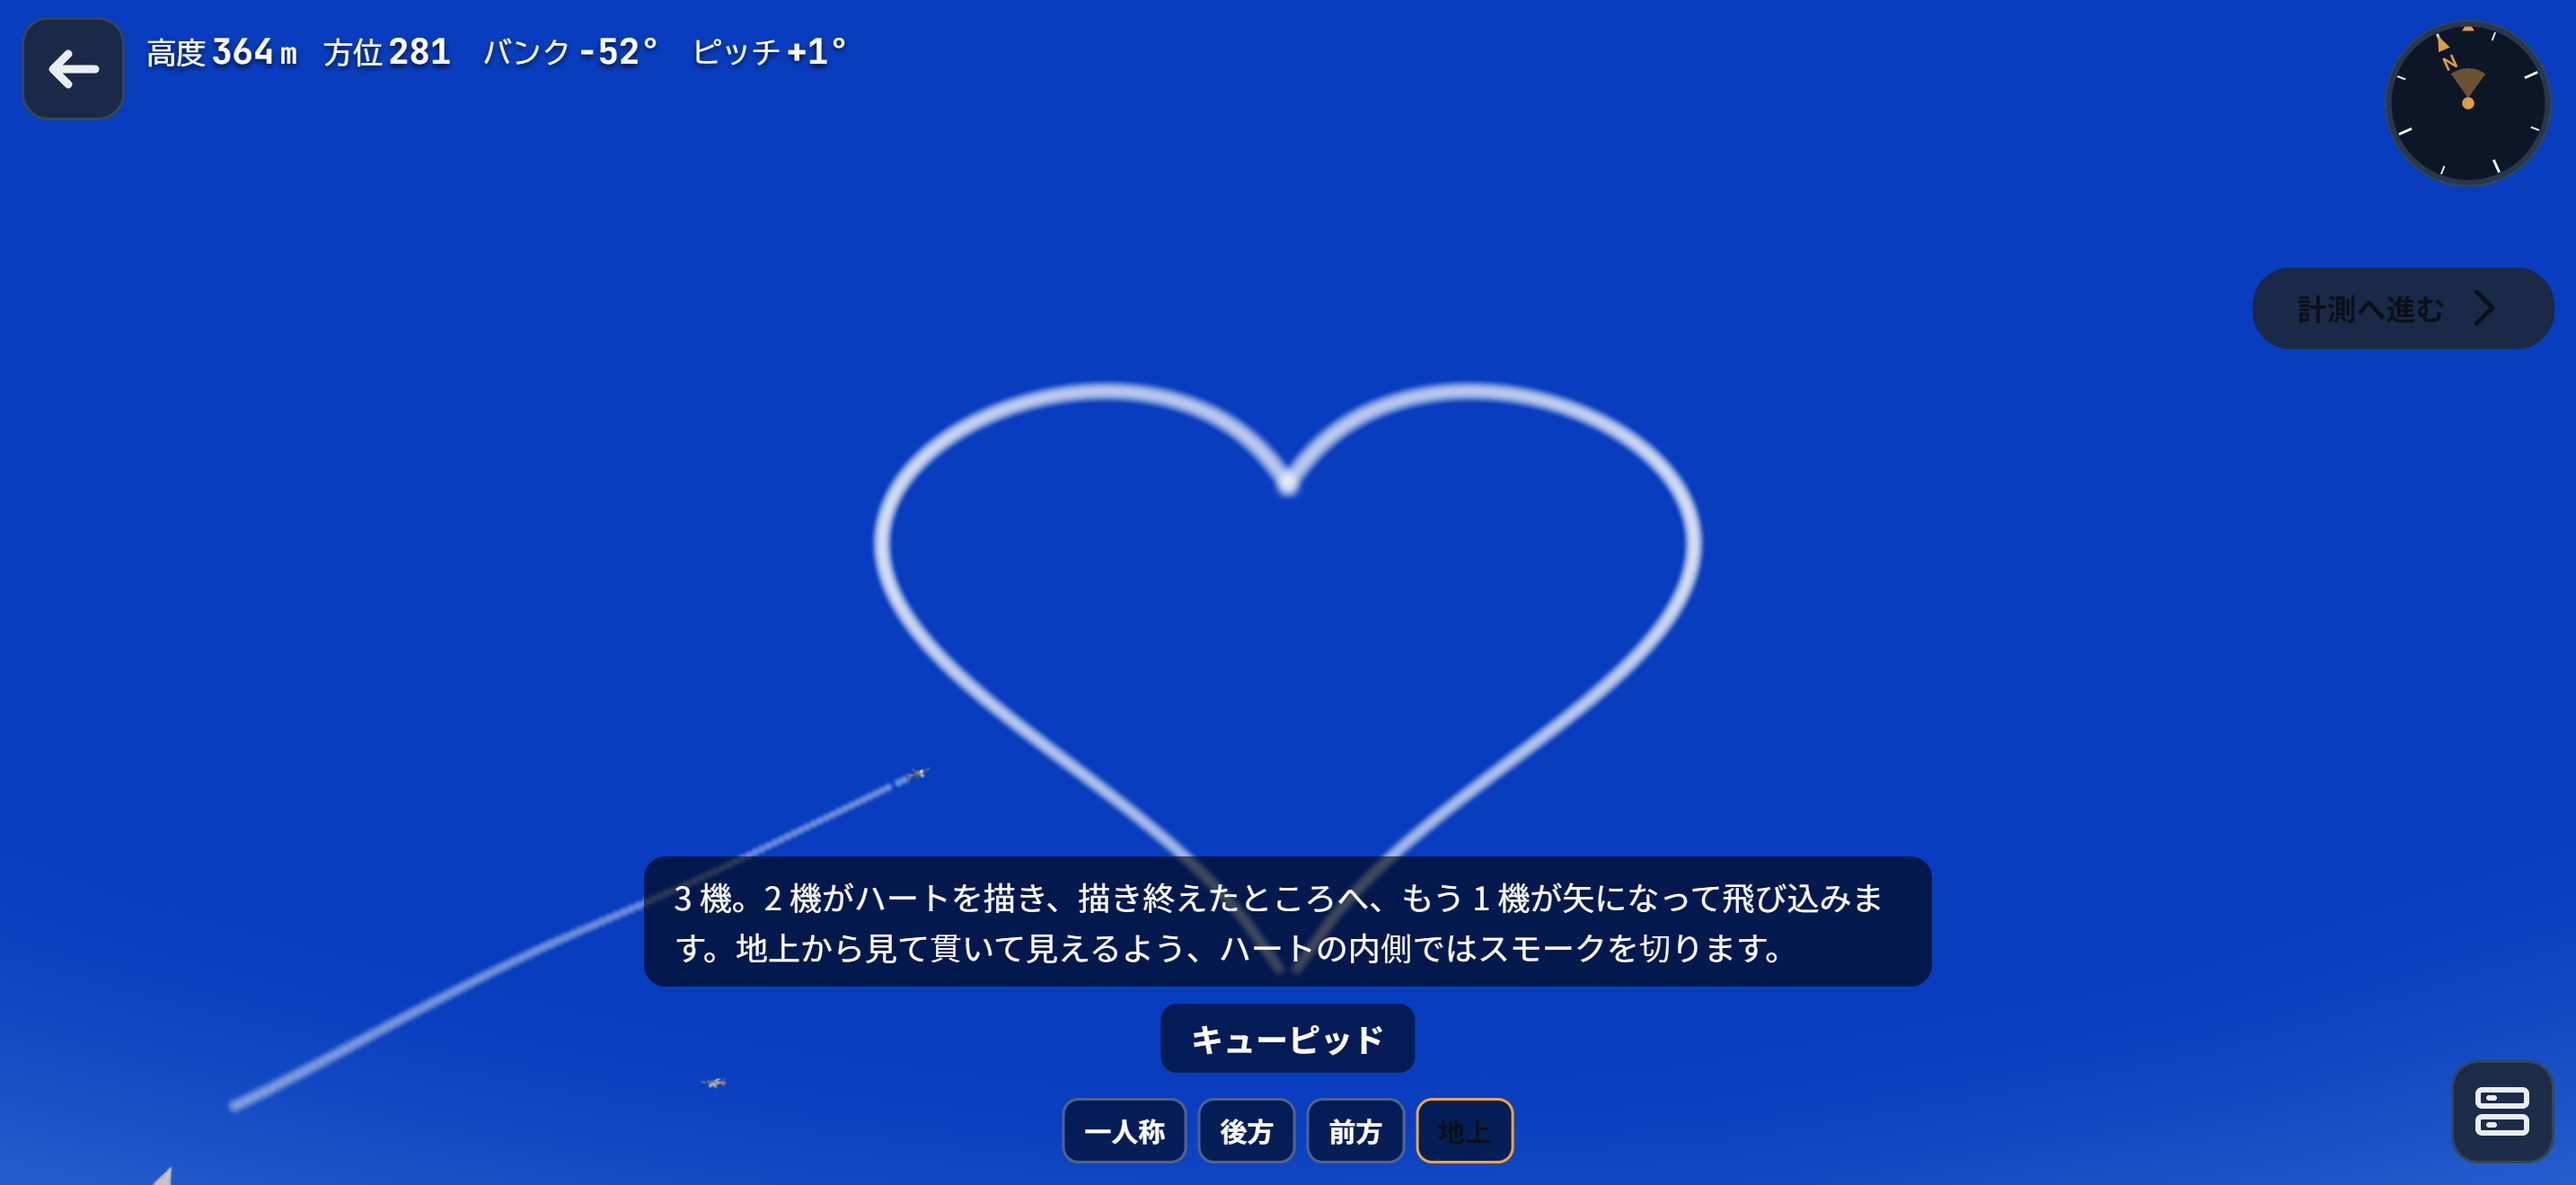
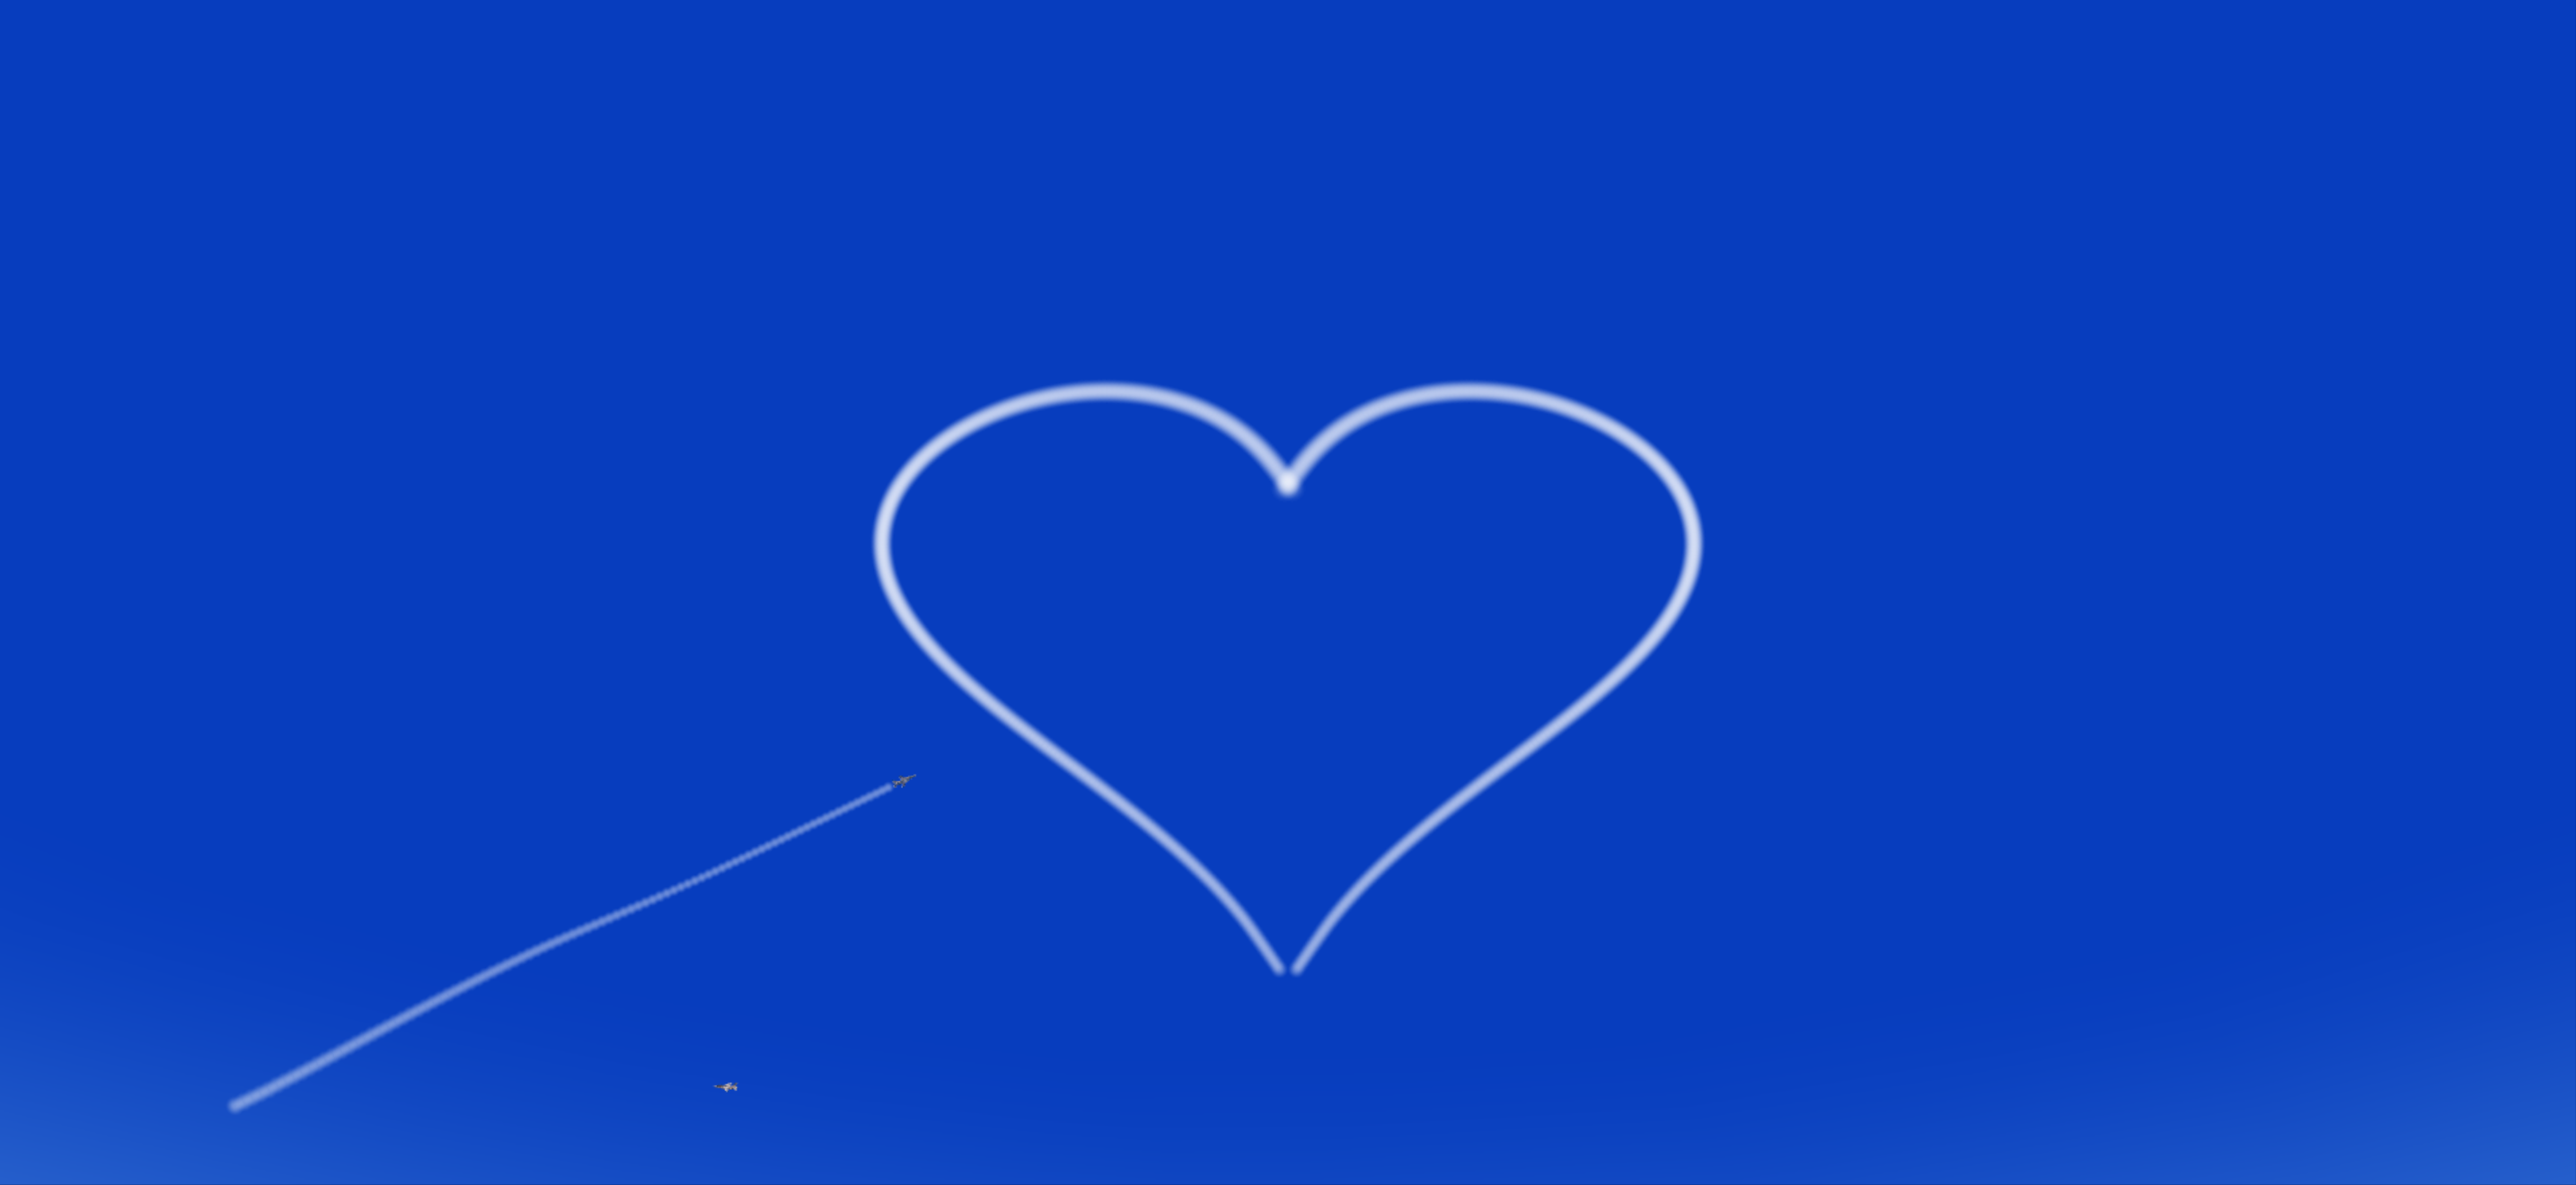
演技の掲載写真を、景色だけのものに差し替える
08・09 を、画面の撮影ではなく写真ボタンと同じ出力（snapshot()）にした。
課目の説明・視点の切り替え・計器・戻るボタンが写らない、景色だけの絵になる。

diff --git a/dev/docs/internal-design.md b/dev/docs/internal-design.md
@@ -933,3 +933,5 @@ App Store のスクリーンショットは実機ではなく、ヘッドレス 
 5. 1 フレーム描かせてから撮る
 
 3D モデルは仮想時間の下では読み込みが止まりやすいので、ハーネス側で先に取得しておく。
+
+演技の 2 枚は、画面をそのまま撮るのではなく `snapshot()` の出力そのものを使う（`shots/shotpure.html`）。`snapshot()` は `renderer.render(world, cam)` を撮り直して canvas を PNG にするだけなので、計器・課目の名前と説明・視点の切り替え・戻るボタン・HUD（いずれも DOM）も、操縦桿の重ね描き（別のシーン `overlay`）も入らない。写真は景色だけになる。
